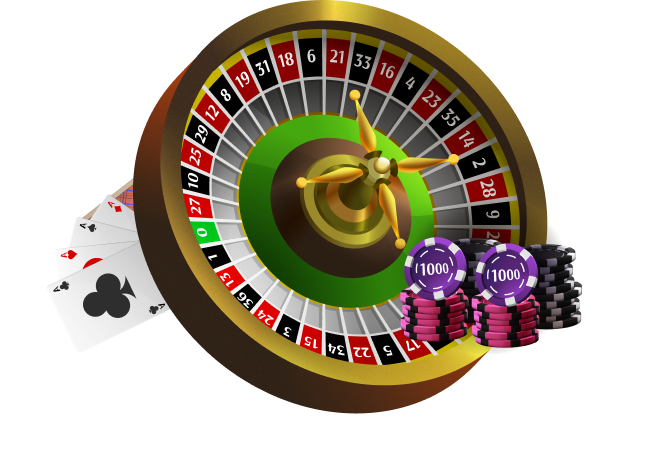
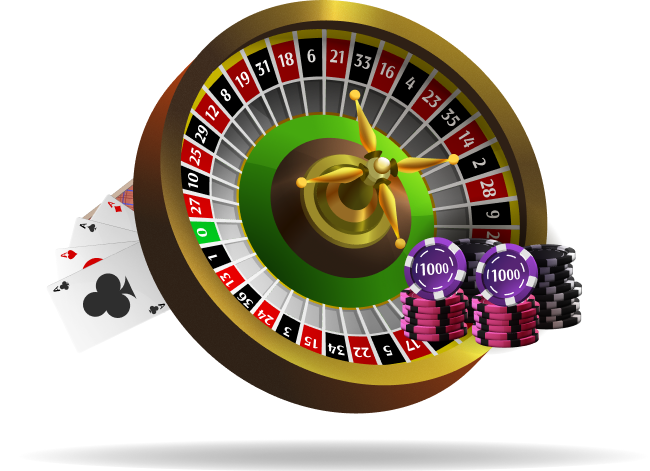
update

Changed region(s): [[0.1231, 0.9214, 0.8923, 1.0]]

diff --git a/src/components/Footer.jsx b/src/components/Footer.jsx
@@ -10,29 +10,29 @@ const Footer = () => {
                         <span><Logo /></span>
                         <p className="mt-3 text-sm sm:text-base font-medium leading-6 text-white font-Inter opacity-80 max-w-[369px]">En Exclusive Games somos un equipo apasionado de personas dedicadas al desarrollo de multiplataformas para juegos de azar</p>
                         <div className="flex items-center gap-3 mt-3 md:mt-6">
-                            <a target="_blank" href="http://instagram.com"><span className="flex items-center justify-center w-8 h-8 rounded-full bg-[#2A2C2C]"><InstaIcon /></span></a>
-                            <a target="_blank" href="http://instagram.com"><span className="flex items-center justify-center w-8 h-8 rounded-full bg-[#2A2C2C]"><FacebookIcon /></span></a>
-                            <a target="_blank" href="http://instagram.com"><span className="flex items-center justify-center w-8 h-8 rounded-full bg-[#2A2C2C]"><TwitterIcon /></span></a>
+                            <a target="_blank" href="http://instagram.com"><span className="flex items-center justify-center w-8 h-8 rounded-full bg-[#2A2C2C] duration-300 hover:bg-gradient-to-r hover:from-[#73ED8D] hover:to-[#5AD2D5] group"><InstaIcon /></span></a>
+                            <a target="_blank" href="http://instagram.com"><span className="flex items-center justify-center w-8 h-8 rounded-full bg-[#2A2C2C] duration-300 hover:bg-gradient-to-r hover:from-[#73ED8D] hover:to-[#5AD2D5] group"><FacebookIcon /></span></a>
+                            <a target="_blank" href="http://instagram.com"><span className="flex items-center justify-center w-8 h-8 rounded-full bg-[#2A2C2C] duration-300 hover:bg-gradient-to-r hover:from-[#73ED8D] hover:to-[#5AD2D5] group"><TwitterIcon /></span></a>
                         </div>
                     </div>
                     <ul className="flex flex-col col-span-1 gap-2 mt-5 sm:gap-3 xs:mt-3 xl:ml-10 xl:col-span-2">
                         <li className="pb-1 text-sm font-bold text-white sm:pb-2 sm:text-base font-Inter">Menú principal</li>
-                        <li><Link to={"/hogar"} className="text-sm font-medium text-white sm:leading-6 sm:text-base opacity-80 font-Inter">Hogar</Link></li>
-                        <li><Link to={"/hogar"} className="text-sm font-medium text-white sm:leading-6 sm:text-base opacity-80 font-Inter">Misión</Link></li>
-                        <li><Link to={"/hogar"} className="text-sm font-medium text-white sm:leading-6 sm:text-base opacity-80 font-Inter">Tragamonedas</Link></li>
-                        <li><Link to={"/hogar"} className="text-sm font-medium text-white sm:leading-6 sm:text-base opacity-80 font-Inter">Por qué elegirnos</Link></li>
-                        <li><Link to={"/hogar"} className="text-sm font-medium text-white sm:leading-6 sm:text-base opacity-80 font-Inter">Ofertas</Link></li>
+                        <li><Link to={"/hogar"} className="text-sm font-medium text-white navLinks sm:leading-6 sm:text-base opacity-80 font-Inter">Hogar</Link></li>
+                        <li><Link to={"/hogar"} className="text-sm font-medium text-white navLinks sm:leading-6 sm:text-base opacity-80 font-Inter">Misión</Link></li>
+                        <li><Link to={"/hogar"} className="text-sm font-medium text-white navLinks sm:leading-6 sm:text-base opacity-80 font-Inter">Tragamonedas</Link></li>
+                        <li><Link to={"/hogar"} className="text-sm font-medium text-white navLinks sm:leading-6 sm:text-base opacity-80 font-Inter">Por qué elegirnos</Link></li>
+                        <li><Link to={"/hogar"} className="text-sm font-medium text-white navLinks sm:leading-6 sm:text-base opacity-80 font-Inter">Ofertas</Link></li>
                     </ul>
                     <ul className="flex flex-col col-span-1 gap-2 mt-5 sm:gap-3 xs:mt-3 xl:col-span-2">
                         <li className="pb-1 text-sm font-bold text-white sm:pb-2 sm:text-base font-Inter">Atención al cliente</li>
-                        <li><Link to={"/hogar"} className="text-sm font-medium text-white sm:leading-6 sm:text-base opacity-80 font-Inter">¿Necesitas ayuda?</Link></li>
-                        <li><Link to={"/hogar"} className="text-sm font-medium text-white sm:leading-6 sm:text-base opacity-80 font-Inter">política de privacidad</Link></li>
-                        <li><Link to={"/hogar"} className="text-sm font-medium text-white sm:leading-6 sm:text-base opacity-80 font-Inter">Términos de servicios</Link></li>
+                        <li><Link to={"/hogar"} className="text-sm font-medium text-white navLinks sm:leading-6 sm:text-base opacity-80 font-Inter">¿Necesitas ayuda?</Link></li>
+                        <li><Link to={"/hogar"} className="text-sm font-medium text-white navLinks sm:leading-6 sm:text-base opacity-80 font-Inter">política de privacidad</Link></li>
+                        <li><Link to={"/hogar"} className="text-sm font-medium text-white navLinks sm:leading-6 sm:text-base opacity-80 font-Inter">Términos de servicios</Link></li>
                     </ul>
                     <ul className="flex flex-col col-span-1 gap-2 mt-5 sm:gap-3 md:mt-3 xl:col-span-2">
                         <li className="pb-1 text-sm font-bold text-white sm:pb-2 sm:text-base font-Inter">Menú principal</li>
-                        <li><a href="mailto:juegosexclusivos@gmail.com" className="flex items-center gap-2 text-sm font-medium text-white sm:leading-6 sm:text-base opacity-80 font-Inter"><span><MailIcon /></span>juegosexclusivos@gmail.com</a></li>
-                        <li><a href="tel:+(101)342-7873" className="flex items-center gap-2 text-sm font-medium text-white sm:leading-6 sm:text-base opacity-80 font-Inter"><span><TelIcon /></span>(101)342-7873</a></li>
+                        <li><a href="mailto:juegosexclusivos@gmail.com" className="flex items-center gap-2 text-sm font-medium text-white duration-300 sm:leading-6 sm:text-base opacity-80 font-Inter hover:opacity-100"><span><MailIcon /></span>juegosexclusivos@gmail.com</a></li>
+                        <li><a href="tel:+(101)342-7873" className="flex items-center gap-2 text-sm font-medium text-white duration-300 sm:leading-6 sm:text-base opacity-80 font-Inter hover:opacity-100"><span><TelIcon /></span>(101)342-7873</a></li>
                     </ul>
                 </div>
             </div>

diff --git a/src/components/Icons.jsx b/src/components/Icons.jsx
@@ -750,21 +750,21 @@ export const SevenSecIcon3 = () => {
 }
 export const InstaIcon = () => {
     return (
-        <svg width="18" height="19" viewBox="0 0 18 19" fill="none" xmlns="http://www.w3.org/2000/svg">
+        <svg className="duration-300 group-hover:scale-95" width="18" height="19" viewBox="0 0 18 19" fill="none" xmlns="http://www.w3.org/2000/svg">
             <path d="M9.92538 0.653451C10.5821 0.650931 11.2389 0.657531 11.8954 0.67325L12.07 0.67955C12.2716 0.68675 12.4705 0.69575 12.7108 0.706549C13.6684 0.751548 14.3217 0.902743 14.895 1.12504C15.489 1.35363 15.9894 1.66322 16.4898 2.1636C16.9473 2.61323 17.3014 3.15712 17.5274 3.75745C17.7497 4.33073 17.9009 4.985 17.9459 5.94257C17.9567 6.18196 17.9657 6.38176 17.9729 6.58335L17.9783 6.75794C17.9943 7.41419 18.0012 8.07063 17.999 8.72708L17.9999 9.39845V10.5774C18.0021 11.2342 17.9952 11.8909 17.9792 12.5474L17.9738 12.722C17.9666 12.9236 17.9576 13.1225 17.9468 13.3628C17.9018 14.3204 17.7488 14.9738 17.5274 15.547C17.3021 16.148 16.9479 16.6923 16.4898 17.1418C16.0397 17.5993 15.4956 17.9533 14.895 18.1795C14.3217 18.4017 13.6684 18.5529 12.7108 18.5979C12.4705 18.6087 12.2716 18.6177 12.07 18.6249L11.8954 18.6303C11.2389 18.6463 10.5821 18.6532 9.92538 18.651L9.254 18.6519H8.07594C7.4192 18.6542 6.76246 18.6473 6.10591 18.6312L5.93132 18.6258C5.71767 18.6181 5.50408 18.6091 5.29054 18.5988C4.33297 18.5538 3.67959 18.4008 3.10541 18.1795C2.50485 17.9539 1.96087 17.5997 1.51157 17.1418C1.05352 16.6921 0.699097 16.1478 0.473003 15.547C0.250711 14.9738 0.0995159 14.3204 0.0545174 13.3628C0.0444944 13.1493 0.0354946 12.9357 0.0275183 12.722L0.0230186 12.5474C0.00642639 11.8909 -0.00107416 11.2342 0.000519283 10.5774V8.72708C-0.0019925 8.07064 0.00460798 7.4142 0.0203187 6.75794L0.0266184 6.58335C0.0338182 6.38176 0.0428179 6.18196 0.0536175 5.94257C0.098616 4.9841 0.249811 4.33163 0.472103 3.75745C0.698331 3.15682 1.05345 2.61308 1.51247 2.1645C1.96146 1.70619 2.5051 1.35144 3.10541 1.12504C3.67959 0.902743 4.33207 0.751548 5.29054 0.706549L5.93132 0.67955L6.10591 0.67505C6.76215 0.658467 7.41859 0.650966 8.07504 0.652551L9.92538 0.653451ZM9.00021 5.1533C8.40399 5.14487 7.81203 5.25502 7.25875 5.47735C6.70547 5.69968 6.20189 6.02976 5.77728 6.4484C5.35268 6.86705 5.01551 7.36591 4.78538 7.91599C4.55524 8.46607 4.43673 9.05641 4.43673 9.65269C4.43673 10.249 4.55524 10.8393 4.78538 11.3894C5.01551 11.9395 5.35268 12.4383 5.77728 12.857C6.20189 13.2756 6.70547 13.6057 7.25875 13.828C7.81203 14.0504 8.40399 14.1605 9.00021 14.1521C10.1936 14.1521 11.3382 13.678 12.1821 12.8341C13.026 11.9902 13.5001 10.8457 13.5001 9.65224C13.5001 8.45881 13.026 7.31426 12.1821 6.47037C11.3382 5.62649 10.1936 5.1533 9.00021 5.1533ZM9.00021 6.95324C9.35886 6.94663 9.71522 7.01155 10.0485 7.14422C10.3818 7.27688 10.6853 7.47463 10.9412 7.7259C11.1972 7.97717 11.4006 8.27694 11.5394 8.60769C11.6783 8.93843 11.7498 9.29353 11.7499 9.65224C11.7499 10.0109 11.6785 10.3661 11.5398 10.6969C11.401 11.0276 11.1978 11.3275 10.9419 11.5788C10.686 11.8302 10.3826 12.028 10.0493 12.1608C9.7161 12.2936 9.35976 12.3586 9.00111 12.3522C8.28505 12.3522 7.59832 12.0677 7.09199 11.5614C6.58566 11.055 6.30121 10.3683 6.30121 9.65224C6.30121 8.93618 6.58566 8.24945 7.09199 7.74312C7.59832 7.23679 8.28505 6.95234 9.00111 6.95234L9.00021 6.95324ZM13.7251 3.80334C13.4347 3.81496 13.1601 3.93847 12.9588 4.14801C12.7575 4.35754 12.6451 4.63684 12.6451 4.92741C12.6451 5.21797 12.7575 5.49727 12.9588 5.7068C13.1601 5.91634 13.4347 6.03985 13.7251 6.05147C14.0234 6.05147 14.3096 5.93294 14.5205 5.72197C14.7315 5.511 14.85 5.22486 14.85 4.92651C14.85 4.62815 14.7315 4.34201 14.5205 4.13104C14.3096 3.92007 14.0234 3.80154 13.7251 3.80154V3.80334Z" fill="#FEFEFE" />
         </svg>
     )
 }
 export const FacebookIcon = () => {
     return (
-        <svg width="11" height="21" viewBox="0 0 11 21" fill="none" xmlns="http://www.w3.org/2000/svg">
+        <svg className="duration-300 group-hover:scale-95" width="11" height="21" viewBox="0 0 11 21" fill="none" xmlns="http://www.w3.org/2000/svg">
             <path d="M7 12.1523H9.5L10.5 8.15234H7V6.15234C7 5.12234 7 4.15234 9 4.15234H10.5V0.792344C10.174 0.749344 8.943 0.652344 7.643 0.652344C4.928 0.652344 3 2.30934 3 5.35234V8.15234H0V12.1523H3V20.6523H7V12.1523Z" fill="#FEFEFE" />
         </svg>
     )
 }
 export const TwitterIcon = () => {
     return (
-        <svg width="19" height="19" viewBox="0 0 19 19" fill="none" xmlns="http://www.w3.org/2000/svg">
+        <svg className="duration-300 group-hover:scale-95" width="19" height="19" viewBox="0 0 19 19" fill="none" xmlns="http://www.w3.org/2000/svg">
             <path d="M2.14352 0C1.60247 0 1.08359 0.214928 0.701018 0.597502C0.318444 0.980076 0.103516 1.49896 0.103516 2.04C0.103516 2.58104 0.318444 3.09992 0.701018 3.4825C1.08359 3.86507 1.60247 4.08 2.14352 4.08C2.68456 4.08 3.20344 3.86507 3.58601 3.4825C3.96859 3.09992 4.18352 2.58104 4.18352 2.04C4.18352 1.49896 3.96859 0.980076 3.58601 0.597502C3.20344 0.214928 2.68456 0 2.14352 0ZM0.223516 5.76C0.19169 5.76 0.161167 5.77264 0.138663 5.79515C0.116158 5.81765 0.103516 5.84817 0.103516 5.88V18.36C0.103516 18.4262 0.157276 18.48 0.223516 18.48H4.06352C4.09534 18.48 4.12586 18.4674 4.14837 18.4449C4.17087 18.4223 4.18352 18.3918 4.18352 18.36V5.88C4.18352 5.84817 4.17087 5.81765 4.14837 5.79515C4.12586 5.77264 4.09534 5.76 4.06352 5.76H0.223516ZM6.46352 5.76C6.43169 5.76 6.40117 5.77264 6.37866 5.79515C6.35616 5.81765 6.34352 5.84817 6.34352 5.88V18.36C6.34352 18.4262 6.39728 18.48 6.46352 18.48H10.3035C10.3353 18.48 10.3659 18.4674 10.3884 18.4449C10.4109 18.4223 10.4235 18.3918 10.4235 18.36V11.64C10.4235 11.1626 10.6132 10.7048 10.9507 10.3672C11.2883 10.0296 11.7461 9.84 12.2235 9.84C12.7009 9.84 13.1587 10.0296 13.4963 10.3672C13.8339 10.7048 14.0235 11.1626 14.0235 11.64V18.36C14.0235 18.4262 14.0773 18.48 14.1435 18.48H17.9835C18.0153 18.48 18.0459 18.4674 18.0684 18.4449C18.0909 18.4223 18.1035 18.3918 18.1035 18.36V10.0848C18.1035 7.75488 16.0779 5.9328 13.7595 6.14304C13.0422 6.20834 12.3395 6.38586 11.6773 6.66912L10.4235 7.20672V5.88C10.4235 5.84817 10.4109 5.81765 10.3884 5.79515C10.3659 5.77264 10.3353 5.76 10.3035 5.76H6.46352Z" fill="#FEFEFE" />
         </svg>
     )

diff --git a/src/components/Ellos.jsx b/src/components/Ellos.jsx
@@ -1,5 +1,5 @@
 import CommonBtn from "./CommonBtn"
-import { BtnSvg } from "./Icons"
+import { BtnSvg, Ellipse } from "./Icons"
 import img1 from '../assets/images/Black1.webp'
 import img2 from '../assets/images/Black2.webp'
 import img3 from '../assets/images/Black3.webp'
@@ -10,25 +10,28 @@ const Ellos = () => {
         { id: 3, img: img3, title: "Innovación", },
     ]
     return (
-        <div className="container max-w-[1140px] mt-10 sm:mt-16 md:mt-24 lg:mt-[150px]">
-            <div className="flex flex-col">
-                <h2 className='text-3xl sm:text-4xl md:text-5xl font-normal font-Anton md:leading-[57px] text-white text-center'>Ellos eligieron apostar con nosotros</h2>
-                <div className="grid grid-cols-1 sm:grid-cols-2 md:grid-cols-3 mt-6 md:mt-12 lg:mt-[60px] relative gap-6">
-                    {
-                        slotsDataSecond.map((listing, index) => (
-                            <div key={index} className={`relative flex flex-col items-center w-full duration-300 group ${listing.id === 3 ? "md:col-span-1 sm:col-span-2" : ""}`}>
-                                <img className={`w-full rounded-lg ${listing.id === 3 ? "md:w-full sm:w-1/2" : ""}`} src={listing.img} alt={listing.title} />
-                                <div className="absolute flex items-center justify-center w-full h-full duration-300 bg-black rounded-lg opacity-0 group-hover:opacity-100 bg-opacity-70">
-                                    <div className="relative"><CommonBtn text="Rcasinovip" />
-                                        <span className="absolute -left-1 -bottom-1"><BtnSvg /></span>
+        <div className="relative overflow-x-clip">
+            <div className="container max-w-[1140px] mt-10 sm:mt-16 md:mt-24 lg:mt-[150px]">
+                <div className="flex flex-col">
+                    <h2 className='text-3xl sm:text-4xl md:text-5xl font-normal font-Anton md:leading-[57px] text-white text-center'>Ellos eligieron apostar con nosotros</h2>
+                    <div className="grid grid-cols-1 sm:grid-cols-2 md:grid-cols-3 mt-6 md:mt-12 lg:mt-[60px] relative gap-6">
+                        {
+                            slotsDataSecond.map((listing, index) => (
+                                <div key={index} className={`relative flex flex-col items-center w-full duration-300 group ${listing.id === 3 ? "md:col-span-1 sm:col-span-2" : ""}`}>
+                                    <img className={`w-full rounded-lg ${listing.id === 3 ? "md:w-full sm:w-1/2" : ""}`} src={listing.img} alt={listing.title} />
+                                    <div className="absolute flex items-center justify-center w-full h-full duration-300 bg-black rounded-lg opacity-0 group-hover:opacity-100 bg-opacity-70">
+                                        <div className="relative"><CommonBtn text="Rcasinovip" />
+                                            <span className="absolute -left-1 -bottom-1"><BtnSvg /></span>
+                                        </div>
                                     </div>
                                 </div>
-                            </div>
-                        ))
-                    }
+                            ))
+                        }
+                    </div>
+                    <p className="mt-5 sm:mt-7 md:mt-[38px] text-sm sm:text-base font-medium leading-6 text-center text-white  font-Inter opacity-80 max-w-[883px] mx-auto flex flex-col items-center">Clientes satisfechos que confiaron en Exclusive Games y han disfrutado de emocionantes experiencias de juego. <span>Ahora, la próxima apuesta está en tus manos.</span> <span>Elige ganar. Elige exclusive game.</span></p>
                 </div>
-                <p className="mt-5 sm:mt-7 md:mt-[38px] text-sm sm:text-base font-medium leading-6 text-center text-white  font-Inter opacity-80 max-w-[883px] mx-auto flex flex-col items-center">Clientes satisfechos que confiaron en Exclusive Games y han disfrutado de emocionantes experiencias de juego. <span>Ahora, la próxima apuesta está en tus manos.</span> <span>Elige ganar. Elige exclusive game.</span></p>
             </div>
+            <Ellipse cstm="-right-[30%] -top-[44%]" />
         </div>
     )
 }

diff --git a/src/components/Slots.jsx b/src/components/Slots.jsx
@@ -72,9 +72,9 @@ const Slots = () => {
                     <span className="absolute top-[50px] right-[19%] hidden xl:block"><SlotArrow2 /></span>
                 </div>
             </div>
-            <div className="container flex flex-col max-w-[1140px] mt-10 sm:mt-16 md:mt-24 lg:mt-[150px] pb-[430px] sm:pb-72 md:pb-[243px]">
+            <div className="container flex flex-col max-w-[1140px] mt-10 sm:mt-16 md:mt-24 lg:mt-[160px] pb-[430px] sm:pb-72 md:pb-[243px]">
                 <h2 className='text-3xl sm:text-4xl md:text-5xl font-normal font-Anton lg:leading-[57px] text-[#00141B] text-center'>Slots </h2>
-                <p className="text-[#00141B] font-Inter font-medium text-sm sm:text-base opacity-80 leading-[26px] text-center mt-3 md:mt-4 max-w-[904px] mx-auto">En Exclusive Games, ofrecemos una selección de más de 600 juegos de los principales desarrolladores, como Aristocrat, Amatic, EGT, Novomatic, IGT, Playtech, Igrosoft y Tom Horn. Nuestro equipo trabaja incansablemente para innovar y ampliar nuestra oferta de experiencias, garantizando la máxima seguridad con operaciones protegidas por cifrado SSL de 256 bits.</p>
+                <p className="text-[#00141B] font-Inter font-medium text-sm sm:text-base opacity-80 leading-[26px] text-center mt-3 md:mt-5 max-w-[904px] mx-auto">En Exclusive Games, ofrecemos una selección de más de 600 juegos de los principales desarrolladores, como Aristocrat, Amatic, EGT, Novomatic, IGT, Playtech, Igrosoft y Tom Horn. Nuestro equipo trabaja incansablemente para innovar y ampliar nuestra oferta de experiencias, garantizando la máxima seguridad con operaciones protegidas por cifrado SSL de 256 bits.</p>
                 <div className="grid grid-cols-1 sm:grid-cols-2 md:grid-cols-3 mt-10 md:mt-12 lg:mt-[60px] relative gap-5 lg:gap-6">
                     {
                         slotsDataSecond.map((el, index) => (
@@ -89,7 +89,7 @@ const Slots = () => {
                         ))
                     }
                 </div>
-                <div className="relative mx-auto mt-5 sm:mt-7 md:mt-10"><CommonBtn cstm="bg-gradient-to-br to-[#51C8EF] from-[#7AF57A] !border-[0px] text-black" text="Mostrar más" />
+                <div className="relative mx-auto mt-5 sm:mt-7 md:mt-10"><CommonBtn cstm="bg-gradient-to-br to-[#51C8EF] from-[#7AF57A] !border-[0px] !text-black" text="Mostrar más" />
                     <span className="absolute -left-1 -bottom-1"><BtnSvg2 /></span>
                 </div>
             </div>

diff --git a/index.html b/index.html
@@ -3,13 +3,33 @@
 
 <head>
   <meta charset="UTF-8" />
-  <link rel="icon" type="image/svg+xml" href="/vite.svg" />
+  <link rel="icon" type="gif" href="./public/assets/favicon.gif" />
   <meta name="viewport" content="width=device-width, initial-scale=1.0" />
   <title>Exclusive-games</title>
   <link rel="preconnect" href="https://fonts.googleapis.com">
   <link rel="preconnect" href="https://fonts.gstatic.com" crossorigin>
   <link href="https://fonts.googleapis.com/css2?family=Anton&family=Inter:wght@300;400;500;600;700&display=swap"
     rel="stylesheet">
+  <meta name="title" content="Exclusive Games. Pasión por ganar" />
+  <meta name="description"
+    content="En Exclusive Games somos un equipo apasionado de personas dedicados al desarrollo de multiplataformas para juegos de azar. A lo largo de nuestra vida consumimos todo tipo de juegos hasta que un día decidimos crear los propios." />
+  <!-- Open Graph / Facebook -->
+  <meta property="og:type" content="website" />
+  <meta property="og:url" content="https://metatags.io/" />
+  <meta property="og:title" content="Exclusive Games. Pasión por ganar" />
+  <meta property="og:description"
+    content="En Exclusive Games somos un equipo apasionado de personas dedicados al desarrollo de multiplataformas para juegos de azar. A lo largo de nuestra vida consumimos todo tipo de juegos hasta que un día decidimos crear los propios." />
+  <meta property="og:image" content="https://i.ibb.co/LdZf4yt/jackpot.png" />
+
+  <!-- Twitter -->
+  <meta property="twitter:card" content="summary_large_image" />
+  <meta property="twitter:url" content="https://metatags.io/" />
+  <meta property="twitter:title" content="Exclusive Games. Pasión por ganar" />
+  <meta property="twitter:description"
+    content="En Exclusive Games somos un equipo apasionado de personas dedicados al desarrollo de multiplataformas para juegos de azar. A lo largo de nuestra vida consumimos todo tipo de juegos hasta que un día decidimos crear los propios." />
+  <meta property="twitter:image" content="https://i.ibb.co/LdZf4yt/jackpot.png" />
+
+  <!-- Meta Tags Generated with https://metatags.io -->
 </head>
 
 <body>

diff --git a/src/components/Nuestras.jsx b/src/components/Nuestras.jsx
@@ -1,12 +1,13 @@
 import jackpotimg from '../assets/images/circlegame.webp';
+import shadow from '../assets/images/shadow.png';
 import CommonBtn from './CommonBtn';
-import { BtnSvg, CheckIcon } from './Icons';
+import { BtnSvg, CheckIcon, Ellipse } from './Icons';
 
 const Nuestras = () => {
     return (
-        <div className="w-full mt-6 sm:mt-12 md:mt-16 lg:mt-[90px] bg-gradient-to-r from-[#062023] to-[#052025] rounded-2xl border-[0.5px] border-white border-opacity-50">
+        <div className="w-full mt-6 sm:mt-8 md:mt-10 lg:mt-[60px] bg-gradient-to-r from-[#062023] to-[#052025] rounded-2xl border-[0.5px] border-white border-opacity-50 relative">
             <div className="grid items-center grid-cols-1 xl:grid-cols-2 xl:gap-10 pt-8 sm:pt-10 md:pt-[57px] pb-8">
-                <div className='flex justify-center'><img src={jackpotimg} alt="jackpot" /></div>
+                <div className='relative flex justify-center'><img src={jackpotimg} alt="jackpot" /><img className='absolute bottom-0 mix-blend-multiply' src={shadow} alt="shadow" /></div>
                 <div className='flex flex-col items-center justify-center px-5 xl:pr-10 xl:items-start xl:justify-start xl:px-0'>
                     <h2 className='md:text-[32px] text-[26px] sm:text-3xl font-normal font-Anton md:leading-[57px] text-white max-xl:text-center'>Silver</h2>
                     <p className='flex items-center gap-2 mt-4 text-base font-medium text-white font-Inter opacity-80 max-xl:text-center'>Diseño predeterminado, atractivo y fácil de navegar, tecnología HTLM5.</p>
@@ -23,6 +24,7 @@ const Nuestras = () => {
                     </div>
                 </div>
             </div>
+            <Ellipse cstm="!max-w-[162px] !min-h-[162px] !blur-[65px] left-[7%] top-[13%]" />
         </div>
     )
 }

diff --git a/src/App.css b/src/App.css
@@ -1,14 +1,10 @@
 .Btn:hover {
     background: linear-gradient(306.99deg, #7AF57A -13.72%, #51C8EF 102.02%);
     box-shadow: 0 0 20px 1px #72EC90;
-    -webkit-transition: all 0.2s ease-out;
-    -moz-transition: all 0.2s ease-out;
     transition: all 0.2s ease-out;
 }
 
 .Btn:hover::before {
-    -webkit-animation: sh02 0.5s 0s linear;
-    -moz-animation: sh02 0.5s 0s linear;
     animation: sh02 0.5s 0s linear;
 }
 
@@ -23,10 +19,6 @@
     opacity: 0;
     background: #fff;
     box-shadow: 0 0 50px 12px #fff;
-    -webkit-transform: skewX(-20deg);
-    -moz-transform: skewX(-20deg);
-    -ms-transform: skewX(-20deg);
-    -o-transform: skewX(-20deg);
     transform: skewX(-20deg);
 }
 
@@ -46,23 +38,28 @@
     }
 }
 
-.Btn:active {
-    box-shadow: 0 0 0 0 transparent;
-    -webkit-transition: box-shadow 0.2s ease-in;
-    -moz-transition: box-shadow 0.2s ease-in;
-    transition: box-shadow 0.2s ease-in;
-}
+.Btn:active { box-shadow: 0 0 0 0 transparent; transition: box-shadow 0.2s ease-in;}
+* { scrollbar-width: unset !important;}
+*::-webkit-scrollbar { height: 0; width: 0;}
+.backToTop::before { content: "Back To Top" !important;}
+.loader::before,
+.loader::after { animation: rotate9 1s infinite cubic-bezier(0.77, 0, 0.175, 1);}
+.loader::after {animation-delay: .5s;}
+@keyframes rotate9 {
+    0%,
+    100% {
+        left: 50px;
+    }
 
-* {
-    scrollbar-width: unset !important;
-    scrollbar-color: unset;
-}
+    25% {
+        transform: scale(.3);
+    }
 
-/* Chrome, Edge and Safari */
-*::-webkit-scrollbar {
-    height: 0;
-    width: 0;
-}
-.backToTop::before {
-    content: "Back To Top" !important;
+    50% {
+        left: 0;
+    }
+
+    75% {
+        transform: scale(1);
+    }
 }

diff --git a/src/components/Jackpot.jsx b/src/components/Jackpot.jsx
@@ -14,10 +14,10 @@ const Jackpot = () => {
     ]
     return (
         <div className='bg-[url(./assets/images/sec4bg.webp)] bg-cover w-full bg-center bg-no-repeat relative'>
-            <div className="container max-w-[1140px] -mt-[330px] xs:-mt-[300px] sm:-mt-28 md:-mt-20 xl:mt-[90px]">
-                <div className="grid items-center grid-cols-1 gap-5 xl:gap-10 xl:grid-cols-2">
-                    <div className='order-2 xl:order-1'><img className='w-full sm:px-5' src={jackpotimg} alt="jackpot" /></div>
-                    <div className='flex flex-col order-1 xl:order-2'>
+            <div className="container max-w-[1140px] -mt-[330px] xs:-mt-[300px] sm:-mt-28 md:-mt-20 xl:mt-[110px]">
+                <div className="grid items-center grid-cols-1 gap-5 xl:gap-7 xl:grid-cols-2">
+                    <div className='order-2 xl:order-1'><img className='w-full sm:px-5 xl:px-0' src={jackpotimg} alt="jackpot" /></div>
+                    <div className='flex flex-col order-1 xl:order-2 xl:ml-3'>
                         <h2 className='text-3xl sm:text-4xl md:text-5xl font-normal font-Anton md:leading-[57px] text-white'>Potenciando sus elecciones</h2>
                         <p className='mt-3 text-sm font-medium leading-6 text-white sm:text-base sm:mt-4 opacity-80 font-Inter'>Con Exclusive Game lo mejor está de tu lado.</p>
                         <p className='flex items-center gap-2 mt-3 text-sm font-medium text-white sm:mt-6 sm:text-base font-Inter opacity-80'><span><CheckIcon /></span>Tecnología HTML5</p>

diff --git a/src/App.jsx b/src/App.jsx
@@ -6,21 +6,33 @@ import Hogar from "./pages/Hogar"
 import Mision from "./pages/Mision"
 import Traga from "./pages/Traga"
 import Footer from "./components/Footer"
+import { useEffect, useState } from "react"
+import Preloder from "./components/Prelodar"
 
 function App() {
-
+  const [screenLoading, setScreenLoading] = useState(false);
+  useEffect(() => {
+    setScreenLoading(true);
+    document.body.classList.add("overflow-hidden")
+    setTimeout(() => {
+      setScreenLoading(false);
+      document.body.classList.remove("overflow-hidden")
+    }, 3500);
+  }, []);
   return (
-    <div className="bg-[#00141B]">
-      <NavBar />
-      <Routes>
-        <Route path="/" element={<Index />} />
-        <Route path="/hogar" element={<Hogar />} />
-        <Route path="/mision" element={<Mision />} />
-        <Route path="/traga" element={<Traga />} />
-      </Routes>
-      <Footer />
-      <ScrollToTop />
-    </div>
+    <>
+      {screenLoading ? (<Preloder />) : (<div className="bg-[#00141B]">
+        <NavBar />
+        <Routes>
+          <Route path="/" element={<Index />} />
+          <Route path="/hogar" element={<Hogar />} />
+          <Route path="/mision" element={<Mision />} />
+          <Route path="/traga" element={<Traga />} />
+        </Routes>
+        <Footer />
+        <ScrollToTop />
+      </div>)}
+    </>
   )
 }
 

diff --git a/src/components/Platinum.jsx b/src/components/Platinum.jsx
@@ -1,9 +1,9 @@
 import CommonBtn from "./CommonBtn"
-import { BtnSvg, CheckIcon } from "./Icons"
+import { BtnSvg, CheckIcon, Ellipse } from "./Icons"
 import img from '../assets/images/seven2.webp'
 const Platinum = () => {
     return (
-        <div className="w-full mt-6 sm:mt-12 md:mt-16 lg:mt-[90px] bg-gradient-to-r from-[#062023] to-[#052025] rounded-2xl border-[0.5px] border-white border-opacity-50">
+        <div className="w-full mt-6 sm:mt-10 md:mt-12 lg:mt-[64px] bg-gradient-to-r from-[#062023] to-[#052025] rounded-2xl border-[0.5px] border-white border-opacity-50 relative">
             <div className="grid items-center grid-cols-1 lg:grid-cols-2 gap-5 md:gap-6 lg:gap-10 py-8 sm:py-12 md:py-16 lg:py-[78px] px-5 sm:px-16 md:px-[50px]">
                 <div className='flex flex-col justify-center order-2 lg:pr-10 max-lg:items-center lg:order-1'>
                     <h2 className='md:text-[32px] text-[26px] sm:text-3xl font-normal font-Anton md:leading-[57px] text-white'>Platinum</h2>
@@ -16,6 +16,7 @@ const Platinum = () => {
                 </div>
                 <div className="flex order-1 lg:order-2 max-lg:justify-center"><img src={img} alt="jackpot" /></div>
             </div>
+            <Ellipse cstm="!max-w-[162px] !min-h-[162px] !blur-[65px] right-[7%] top-[13%]" />
         </div>
     )
 }

diff --git a/src/components/Accordion.jsx b/src/components/Accordion.jsx
@@ -1,5 +1,5 @@
 import { useState } from "react"
-import { AddIcon, MinusIcon } from "./Icons";
+import { AddIcon, Ellipse, MinusIcon } from "./Icons";
 const Accordion = () => {
     const [open, setOpen] = useState(0);
     const toggleAccordion = (index) => {
@@ -14,7 +14,7 @@ const Accordion = () => {
         { id: 6, title: "¿Puedo probar sus juegos antes de comprometerme?", content: "En Exclusive Games, ofrecemos experiencias únicas y personalizadas, respaldadas por más de 15 años de dedicación al desarrollo de multiplataformas para juegos de azar." },
     ];
     return (
-        <div>
+        <div className="relative ">
             <div className="container max-w-[970px] mt-10 sm:mt-16 md:mt-24 lg:mt-[150px]">
                 <h2 className='text-white font-Anton font-normal text-center leading-8 md:leading-[69px] text-3xl sm:text-4xl md:text-5xl uppercase'>Preguntas más frecuentes</h2>
                 <div className="my-6 sm:my-10 lg:my-[60px]">
@@ -29,6 +29,7 @@ const Accordion = () => {
                     }
                 </div>
             </div>
+            <Ellipse cstm="-left-[30%] -top-[27%]" />
         </div>
     )
 }

diff --git a/src/components/NavBar.jsx b/src/components/NavBar.jsx
@@ -2,7 +2,7 @@ import { Link } from "react-router-dom"
 import CommonBtn from "./CommonBtn"
 import { BtnSvg, Logo } from "./Icons"
 import { Sling as Hamburger } from 'hamburger-react'
-import { useState } from "react"
+import { useEffect, useState } from "react"
 
 const NavBar = () => {
   const [isOpen, setOpen] = useState(false);
@@ -41,7 +41,7 @@ const NavBar = () => {
     }
   }
   return (
-    <nav id="nav" className="backdrop:blur-xl bg-[rgba(255,255,255,0.10)] w-full z-40 top-0 left-1/2">
+    <nav id="nav" className={`backdrop:blur-xl bg-[rgba(255,255,255,0.10)] navbar w-full z-40 top-0 left-1/2`}>
       <div id="navbar" className="container flex items-center justify-between py-5 max-w-[1140px] relative z-40">
         <Link to={"/"}><span><Logo /></span></Link>
         <ul className={`${isOpen ? "right-0" : "-right-full"} flex items-center lg:-ml-12 gap-7 mobileview`}>
